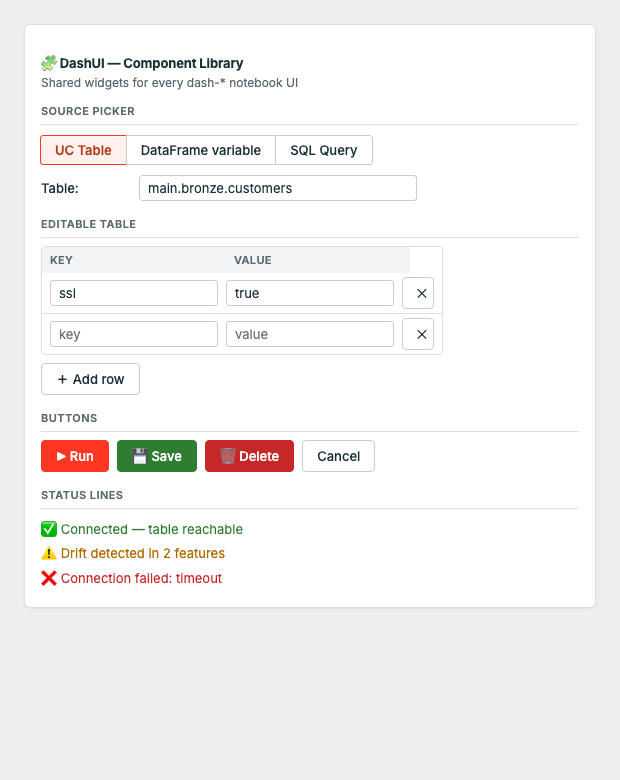
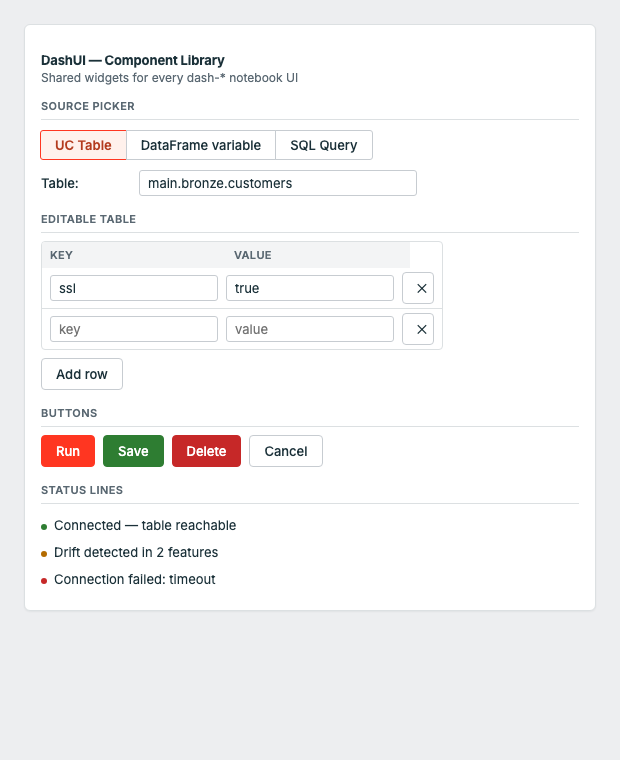
feat: replace colorful emoji with a sophisticated dot/text status style
status_line() used full-color ✅❌⚠️ℹ️ emoji prefixes — explicit user
feedback: "too colorful and quite honestly tacky... be more
sophisticated". Replaced with a small solid CSS dot in the status color
plus plain text, matching how Databricks' own job/cluster status
indicators actually read.

header()/action_button() keep their `emoji` parameter for API
compatibility (nothing currently in the suite passes one, but removing it
outright would be a needless breaking change) — docstrings now note
Databricks headers/buttons are plain text, no decorative glyph, and that
callers shouldn't populate it. The actual emoji stripping from every
dash-* package's header()/action_button() call sites happens in each of
their own repos, not here.

Regenerated docs/screenshots/components_preview.png. Verified: ruff
clean, 14 tests pass (updated the status_line test to check color/text
instead of a hardcoded emoji), rendered and visually reviewed via the
same Playwright/Chromium screenshot process before committing.

Changed region(s): [[0.0613, 0.2724, 0.7048, 0.7868], [0.0613, 0.0605, 0.6129, 0.2421]]

diff --git a/dashui/components.py b/dashui/components.py
@@ -186,15 +186,18 @@ def _global_style():
 
 
 def header(title: str, library: str = "default", emoji: str = "", subtitle: str = ""):
-    """Top banner used at the start of every launch() UI."""
+    """Top banner used at the start of every launch() UI. `emoji` is kept for
+    API compatibility but not used by any dash-* package — Databricks' own
+    page headers are plain text, no decorative glyph."""
     color = accent(library)
+    prefix = f"{emoji} " if emoji else ""
     sub = (
         f"<div style='font-size:12px;color:{MUTED_FOREGROUND};margin-top:2px;"
         f"font-family:{FONT_SANS}'>{subtitle}</div>"
     ) if subtitle else ""
     return html(
         f"<h2 style='color:{color};margin-bottom:0;font-weight:700;"
-        f"letter-spacing:-0.01em;font-family:{FONT_SANS}'>{emoji} {title}</h2>{sub}"
+        f"letter-spacing:-0.01em;font-family:{FONT_SANS}'>{prefix}{title}</h2>{sub}"
     )
 
 
@@ -204,10 +207,15 @@ def section(title: str):
 
 
 def status_line(text: str, kind: str = "info"):
-    """One-line colored status message: kind in success|error|warning|info."""
+    """One-line status message: kind in success|error|warning|info. A small
+    solid dot carries the color instead of a colorful emoji — closer to how
+    Databricks' own job/cluster status indicators read."""
     color = {"success": SUCCESS, "error": DANGER, "warning": WARNING, "info": MUTED_FOREGROUND}.get(kind, MUTED_FOREGROUND)
-    prefix = {"success": "✅", "error": "❌", "warning": "⚠️", "info": "ℹ️"}.get(kind, "")
-    return html(f"<span style='color:{color};font-family:{FONT_SANS}'>{prefix} {text}</span>")
+    return html(
+        f"<span style='font-family:{FONT_SANS};color:#1B3139'>"
+        f"<span style='display:inline-block;width:6px;height:6px;border-radius:50%;"
+        f"background:{color};margin-right:7px'></span>{text}</span>"
+    )
 
 
 def card(children, padding: str = "16px"):
@@ -285,7 +293,9 @@ def source_selector(label: str = "Source:") -> SourceSelector:
 
 
 def action_button(text: str, style: str = "primary", emoji: str = ""):
-    """style in primary|success|warning|danger|info — matches the Databricks button variants."""
+    """style in primary|success|warning|danger|info — matches the Databricks
+    button variants. `emoji` is kept for API compatibility but not used by
+    any dash-* package — Databricks buttons are plain text, no glyph."""
     w = _require_widgets()
     label = f"{emoji} {text}".strip()
     btn = w.Button(description=label, layout=w.Layout(height="32px", padding="0 14px", width="auto"))

diff --git a/tests/test_dashui.py b/tests/test_dashui.py
@@ -22,11 +22,12 @@ def test_header_returns_widget():
 
 
 def test_status_line_kinds():
+    from dashui.theme import DANGER, SUCCESS
     import dashui
     ok = dashui.status_line("done", kind="success")
     err = dashui.status_line("bad", kind="error")
-    assert "✅" in ok.value
-    assert "❌" in err.value
+    assert "done" in ok.value and SUCCESS in ok.value
+    assert "bad" in err.value and DANGER in err.value
 
 
 def test_source_selector_default_value():